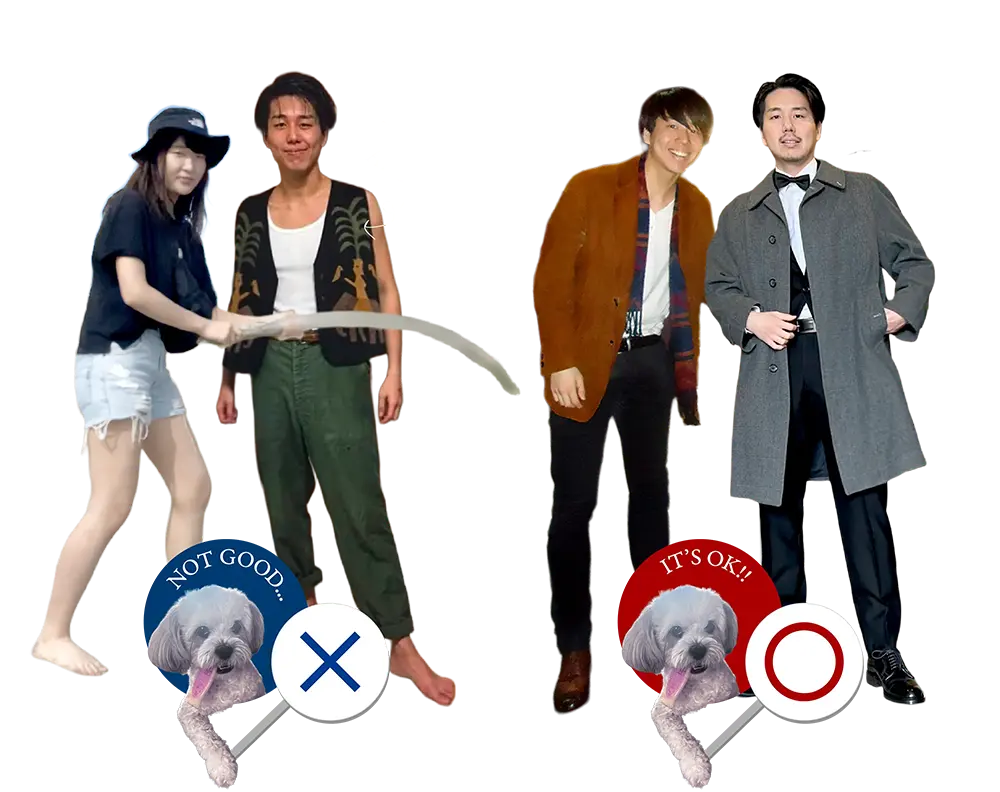
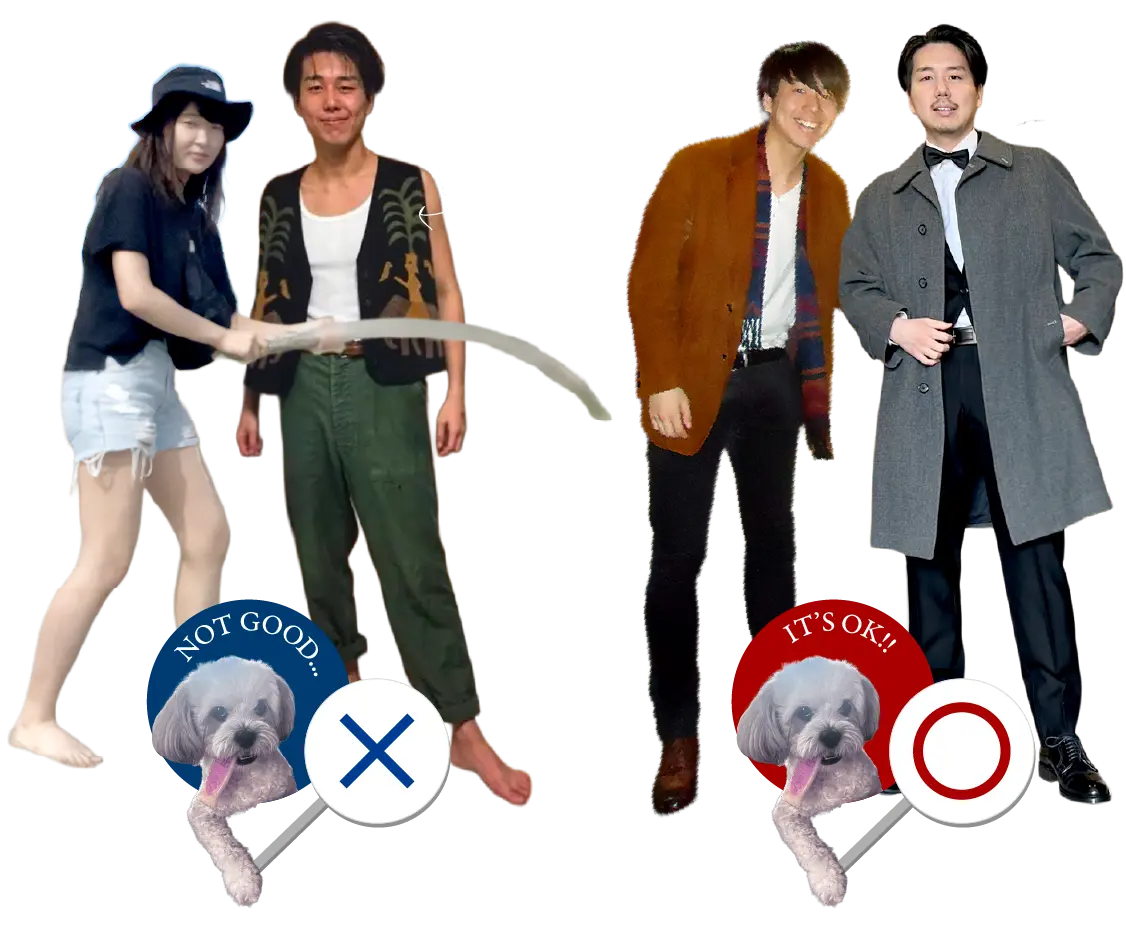
dresscode調整

diff --git a/css/style.scss b/css/style.scss
@@ -280,9 +280,6 @@ html.wf-active body {
     }
 
     .dresscode{
-        background-color: #fff;
-        /*padding-bottom: 65px; */
-        overflow: hidden;
         .bg{
             background-color: #998181;
             color: #fff;
@@ -292,13 +289,6 @@ html.wf-active body {
         }
         p{
             text-align: center;;
-        }
-        .media{
-            position: absolute;
-            bottom: 0;
-            left: 50%;
-            transform: translateX(-50%);
-            width: 111%;
         }
     }
 

diff --git a/css/style.css b/css/style.css
@@ -299,11 +299,6 @@ table td {
      object-fit: cover;
 }
 
-.dresscode {
-  background-color: #fff;
-  /*padding-bottom: 65px; */
-  overflow: hidden;
-}
 .dresscode .bg {
   background-color: #998181;
   color: #fff;
@@ -313,13 +308,6 @@ table td {
 }
 .dresscode p {
   text-align: center;
-}
-.dresscode .media {
-  position: absolute;
-  bottom: 0;
-  left: 50%;
-  transform: translateX(-50%);
-  width: 111%;
 }
 
 .nijikai {
